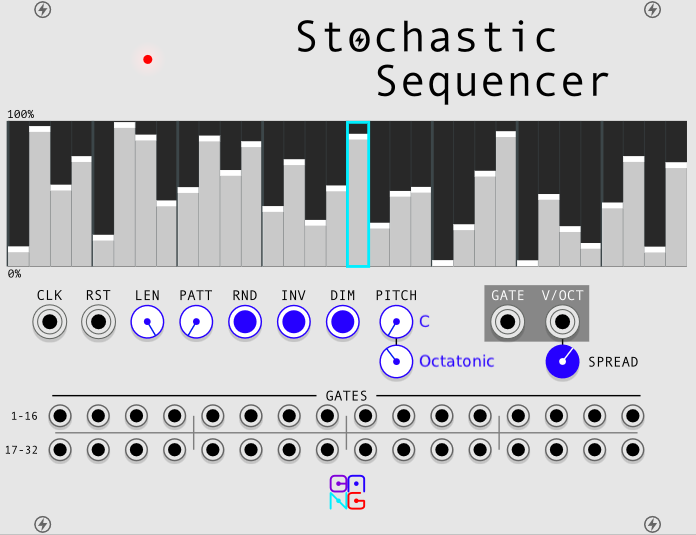
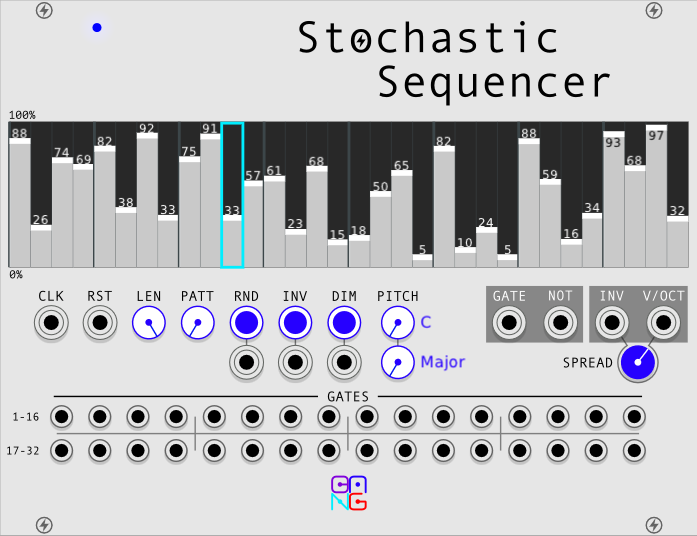
updated StochSeq with not gates and inv

diff --git a/src/StochSeq.cpp b/src/StochSeq.cpp
@@ -7,6 +7,7 @@
 
 struct StochSeq : Module, Quantize {
 	enum ParamIds {
+		RESET_PARAM,
 		PATTERN_PARAM,
 		RANDOM_PARAM,
 		INVERT_PARAM,
@@ -28,6 +29,8 @@ struct StochSeq : Module, Quantize {
 	enum OutputIds {
 		GATES_OUTPUT = NUM_OF_SLIDERS,
 		GATE_MAIN_OUTPUT = GATES_OUTPUT + NUM_OF_SLIDERS,
+		NOT_GATE_MAIN_OUTPUT,
+		INV_VOLT_OUTPUT,
 		VOLT_OUTPUT,
 		NUM_OUTPUTS
 	};
@@ -42,6 +45,7 @@ struct StochSeq : Module, Quantize {
 	dsp::SchmittTrigger randomTrig;
 	dsp::SchmittTrigger invertTrig;
 	dsp::PulseGenerator gatePulse;
+	dsp::PulseGenerator notGatePulse;
 	int seqLength = NUM_OF_SLIDERS;
 	int gateIndex = -1;
 	int currentGateOut = gateIndex;
@@ -51,11 +55,13 @@ struct StochSeq : Module, Quantize {
 	bool showPercentages = true;
 	int randLight;
 	float pitchVoltage = 0.0;
+	float invPitchVoltage = 0.0;
 	float *gateProbabilities = new float[NUM_OF_SLIDERS];
 	bool enableKBShortcuts = true;
 
 	StochSeq() {
 		config(NUM_PARAMS, NUM_INPUTS, NUM_OUTPUTS, NUM_LIGHTS);
+		configParam(RESET_PARAM, 0.0, 1.0, 0.0, "reset");
 		configParam(PATTERN_PARAM, 0.0, 7.0, 0.0, "pattern");
 		configParam(INVERT_PARAM, 0.0, 1.0, 0.0, "invert pattern");
 		configParam(RANDOM_PARAM, 0.0, 1.0, 0.0, "randomize pattern");
@@ -115,7 +121,7 @@ struct StochSeq : Module, Quantize {
 	}
 
 	void process(const ProcessArgs& args) override {
-		if (resetTrig.process(inputs[RESET_INPUT].getVoltage())) {
+		if (resetTrig.process(params[RESET_PARAM].getValue() + inputs[RESET_INPUT].getVoltage())) {
 			resetMode = true;
 		}
 		if ((int)params[PATTERN_PARAM].getValue() != currentPattern) {
@@ -141,9 +147,12 @@ struct StochSeq : Module, Quantize {
 		}
 
 		bool gateVolt = gatePulse.process(1.0 / args.sampleRate);
+		bool notGateVolt = notGatePulse.process(1.0 / args.sampleRate);
 		// float blink = lightBlink ? 1.0 : 0.0;
 		outputs[GATES_OUTPUT + currentGateOut].setVoltage(gateVolt ? 10.0 : 0.0);
 		outputs[GATE_MAIN_OUTPUT].setVoltage(gateVolt ? 10.0 : 0.0);
+		outputs[NOT_GATE_MAIN_OUTPUT].setVoltage(notGateVolt ? 10.0 : 0.0); // todo
+		outputs[INV_VOLT_OUTPUT].setVoltage(invPitchVoltage);
 		outputs[VOLT_OUTPUT].setVoltage(pitchVoltage);
 		// int randLight = int(random::uniform() * NUM_OF_LIGHTS);
 		for (int i = 0; i < NUM_OF_LIGHTS; i++) {
@@ -164,15 +173,20 @@ struct StochSeq : Module, Quantize {
 
 		float prob = gateProbabilities[gateIndex];
 		if (random::uniform() < prob) {
-			gatePulse.trigger(1e-3);
+			gatePulse.trigger(1e-1);
 			currentGateOut = gateIndex;
 			lightBlink = true;
 			randLight = static_cast<int>(random::uniform() * NUM_OF_LIGHTS);
+		} else {
+			notGatePulse.trigger(1e-1);
 		}
 
 		float spread = params[SPREAD_PARAM].getValue();
 		float volts = prob * (2 * spread) - spread;
+		float invVolts = (1.0 - prob) * (2 * spread) - spread;
 		pitchVoltage = Quantize::quantizeRawVoltage(volts, rootNote, scale);
+		invPitchVoltage = Quantize::quantizeRawVoltage(invVolts, rootNote, scale);
+
 		// pitchVoltage = prob * (2 * spread) - spread;
 	}
 
@@ -525,12 +539,13 @@ struct StochSeqWidget : ModuleWidget {
 		addChild(createWidget<JeremyScrew>(Vec(457.1, 2)));
 		addChild(createWidget<JeremyScrew>(Vec(457.1, box.size.y-14)));
 
+		addParam(createParamCentered<TinyBlueButton>(Vec(71.4, 256.8), module, StochSeq::RESET_PARAM));
 		addParam(createParamCentered<BlueInvertKnob>(Vec(105.9, 228.7), module, StochSeq::LENGTH_PARAM));
 		addParam(createParamCentered<BlueInvertKnob>(Vec(140.5, 228.7), module, StochSeq::PATTERN_PARAM));
 		addParam(createParamCentered<DefaultButton>(Vec(175, 228.7), module, StochSeq::RANDOM_PARAM));
 		addParam(createParamCentered<DefaultButton>(Vec(209.5, 228.7), module, StochSeq::INVERT_PARAM));
 		addParam(createParamCentered<DefaultButton>(Vec(244.1, 228.7), module, StochSeq::DIMINUTION_PARAM));
-		addParam(createParamCentered<BlueKnob>(Vec(399.5, 256.8), module, StochSeq::SPREAD_PARAM));
+		addParam(createParamCentered<BlueKnob>(Vec(451.7, 256.8), module, StochSeq::SPREAD_PARAM));
 
 		// note and scale knobs
 		BlueNoteKnob *noteKnob = dynamic_cast<BlueNoteKnob *>(createParamCentered<BlueNoteKnob>(Vec(282, 228.7), module, StochSeq::ROOT_NOTE_PARAM));
@@ -555,7 +570,9 @@ struct StochSeqWidget : ModuleWidget {
 		addInput(createInputCentered<PJ301MPort>(Vec(36.9, 228.7), module, StochSeq::CLOCK_INPUT));
 		addInput(createInputCentered<PJ301MPort>(Vec(71.4, 228.7), module, StochSeq::RESET_INPUT));
 		addOutput(createOutputCentered<PJ301MPort>(Vec(360.7, 228.7), module, StochSeq::GATE_MAIN_OUTPUT));
-		addOutput(createOutputCentered<PJ301MPort>(Vec(399.5, 228.7), module, StochSeq::VOLT_OUTPUT));
+		addOutput(createOutputCentered<PJ301MPort>(Vec(397.1, 228.7), module, StochSeq::NOT_GATE_MAIN_OUTPUT));
+		addOutput(createOutputCentered<PJ301MPort>(Vec(433.5, 228.7), module, StochSeq::INV_VOLT_OUTPUT));
+		addOutput(createOutputCentered<PJ301MPort>(Vec(469.9, 228.7), module, StochSeq::VOLT_OUTPUT));
 
 		// addChild(createLight<SmallLight<JeremyBlueLight>>(Vec(84, 50), module, StochSeq::BLUE_LIGHT));
 
@@ -658,78 +675,7 @@ struct StochSeqWidget : ModuleWidget {
 			ModuleWidget::onHoverKey(e);
 			// OpaqueWidget::onHoverKey(e);
 		}
-
-		// OpaqueWidget::onHoverKey(e);
-		// if (e.isConsumed())
-		// 	return;
-
-		// if (e.action == GLFW_PRESS || e.action == RACK_HELD) {
-		// 	StochSeq *module = dynamic_cast<StochSeq *>(this->module);
-
-		// 	if (e.key == GLFW_KEY_LEFT_BRACKET && (e.mods & RACK_MOD_MASK) == RACK_MOD_CTRL) {
-		// 		module->shiftPatternLeft();
-		// 		e.consume(this);
-		// 	} else {
-		// 		OpaqueWidget::onHoverKey(e);
-		// 	}
-			// else if (e.key == GLFW_KEY_RIGHT_BRACKET && (e.mods & RACK_MOD_MASK) == RACK_MOD_CTRL) {
-			// 	module->shiftPatternRight();
-			// 	e.consume(this);
-			// }
-		// } 
-		// else {
-		// 	OpaqueWidget::onHoverKey(e);
-		// }
-		// else if (e.action == GLFW_PRESS && e.key == GLFW_KEY_RIGHT_BRACKET)
-		// {
-		// 	if ((e.mods & RACK_MOD_MASK) == RACK_MOD_CTRL) {
-		// 		module->shiftPatternRight();
-		// 		e.consume(this);
-		// 	}
-		// }
-		// else {
-		// 	OpaqueWidget::onHoverKey(e);
-		// }
-			// if (e.action == GLFW_PRESS) {
-			// 	// bool control = (e.mods & RACK_MOD_MASK) == GLFW_MOD_CONTROL;
-			// 	bool tabAndCtrl = e.key == (GLFW_KEY_TAB | RACK_MOD_CTRL);
-			// 	bool left = e.key == GLFW_KEY_LEFT;
-			// 	bool ctl = (e.mods & RACK_MOD_MASK) == RACK_MOD_CTRL;
-
-			// 	if (tabAndCtrl) {
-			// 		e.consume(this);
-			// 		DEBUG("tab + control!!");
-			// 	}
-			// 	// if (tab) {
-			// 	// 	e.consume(this);
-			// 	// 	DEBUG("tab + control!!");
-			// 	// } else if (left) {
-			// 	// 	e.consume(this);
-			// 	// 	DEBUG("tab + left!!!!");
-			// 	// }
-			// } else {
-			// 	OpaqueWidget::onHoverKey(e);
-			// }
-
-			// if (e.action == GLFW_PRESS && e.key == GLFW_KEY_LEFT) {
-			// 	DEBUG("got here");
-			// 	e.consume(this);
-			// }
-
-			// if (e.action == GLFW_PRESS) {
-			// 	if (e.key == GLFW_KEY_LEFT) {
-			// 		e.consume(this);
-			// 		DEBUG("actino!!");
-			// 	}
-			// }
-			// if ((e.mods & RACK_MOD_MASK) == GLFW_MOD_SHIFT) {
-			// 	DEBUG("SHIFT!!!!");
-			// }
-			// if (e.mods == GLFW_MOD_SHIFT) {
-			// 	e.consume(this);
-			// 	DEBUG("shift!!!!");
-			// }
-		}
+	}
 };
 
 
